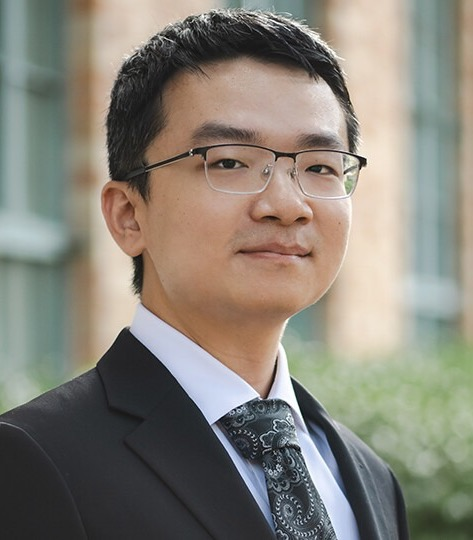
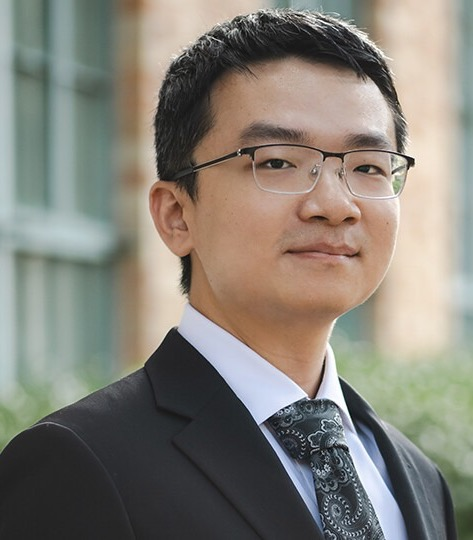
Re-center headshot crop

diff --git a/index.html b/index.html
@@ -158,7 +158,7 @@
 
     <!-- Header -->
     <div class="header">
-        <img src="photo.jpg?v=20261117" alt="Kai Wu" class="photo">
+        <img src="photo.jpg?v=20261117b" alt="Kai Wu" class="photo">
         <div class="bio">
             <h1>Kai Wu</h1>
             <div class="affiliation">
